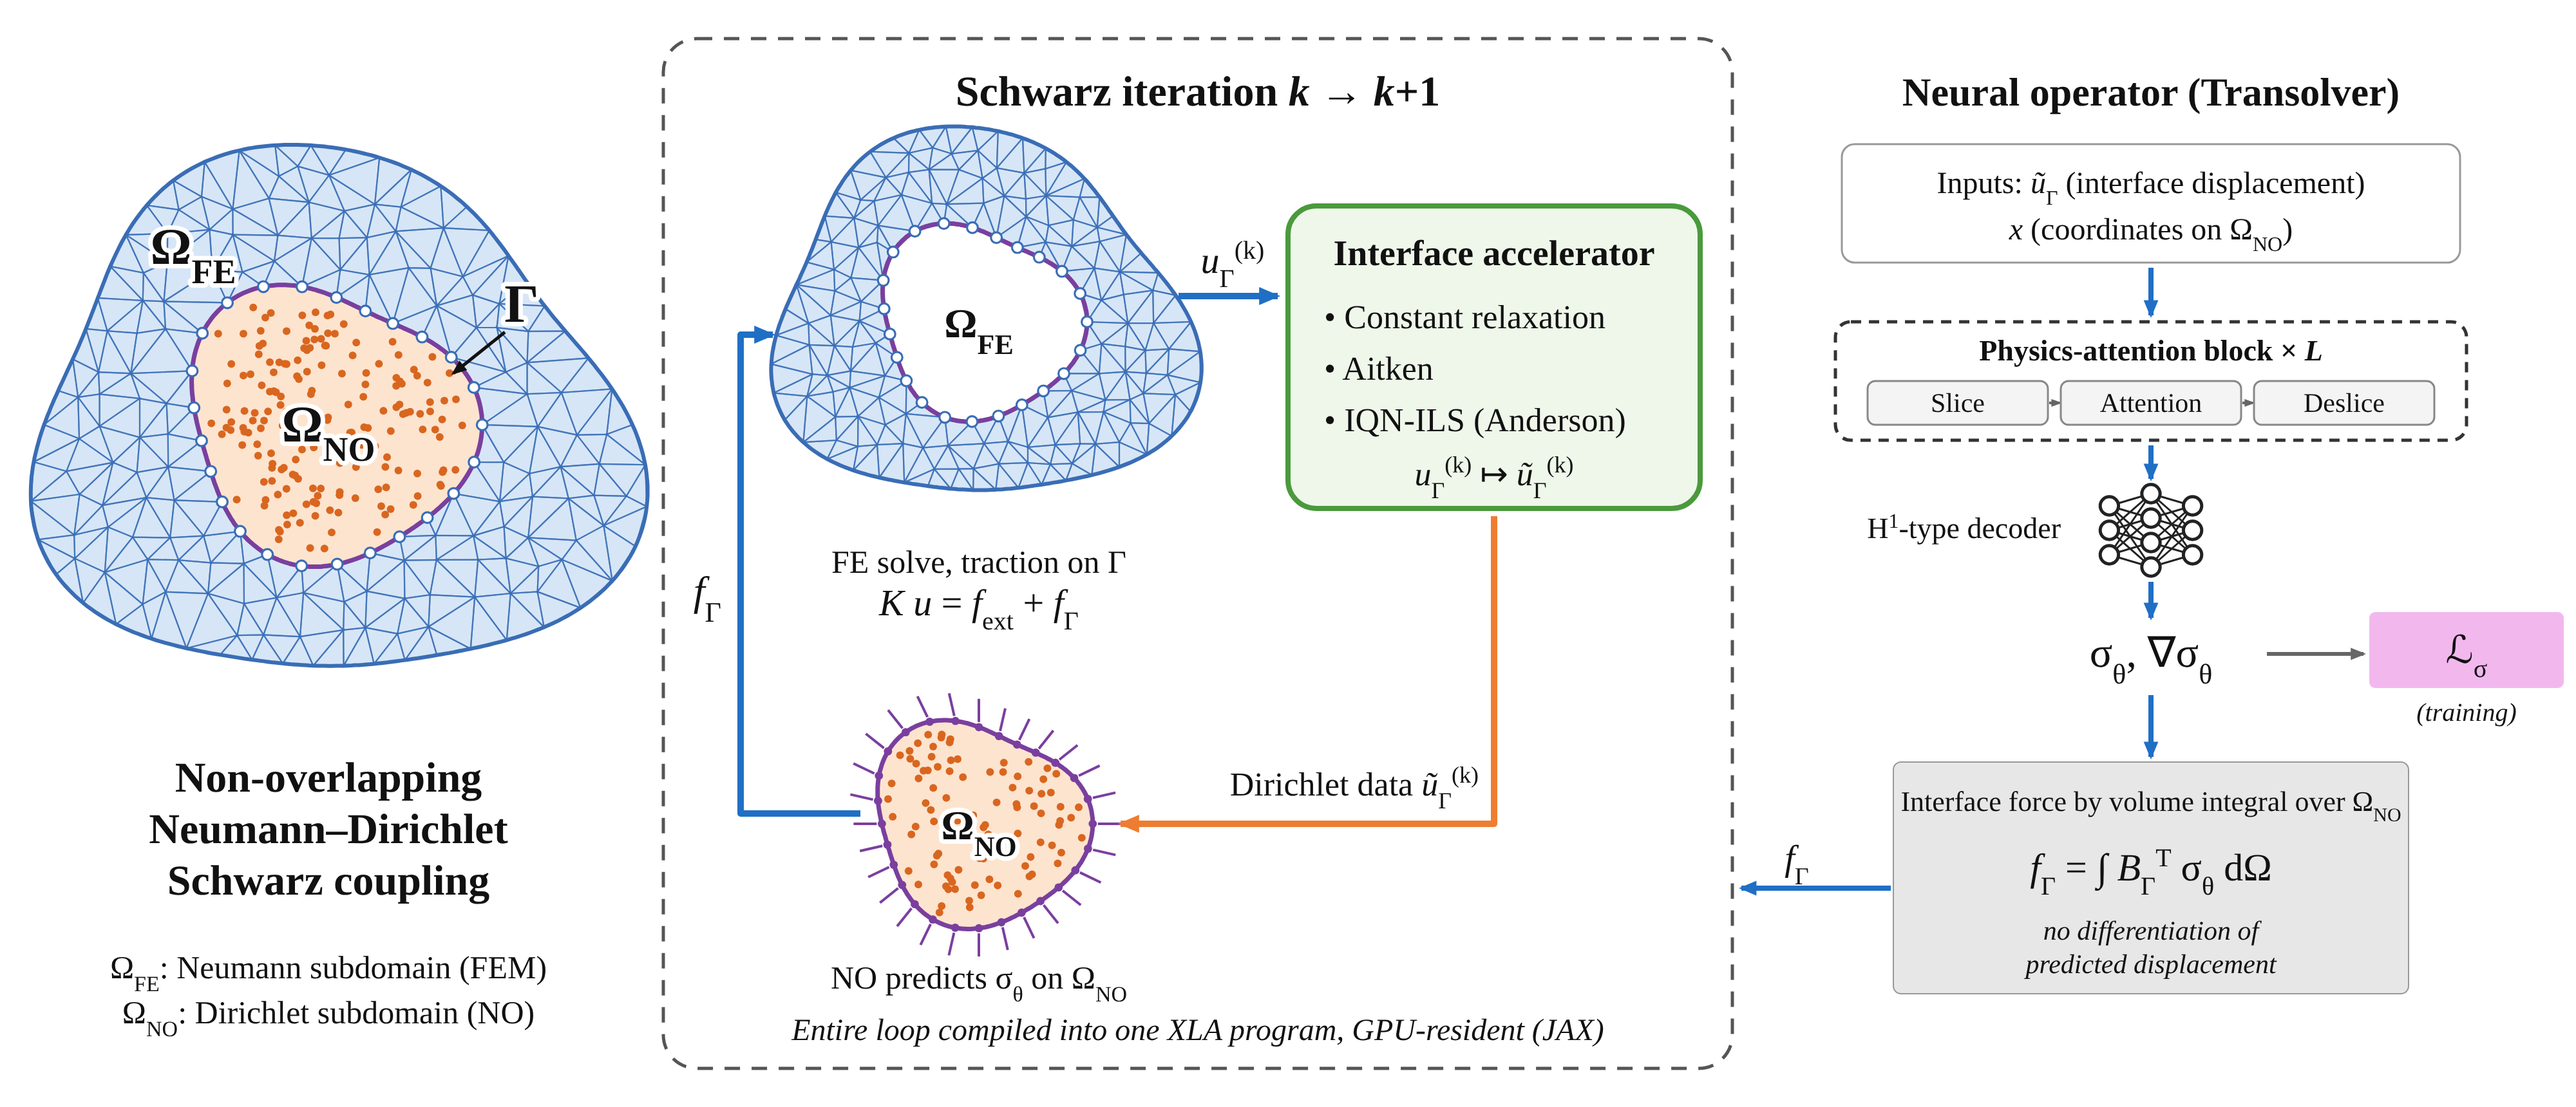
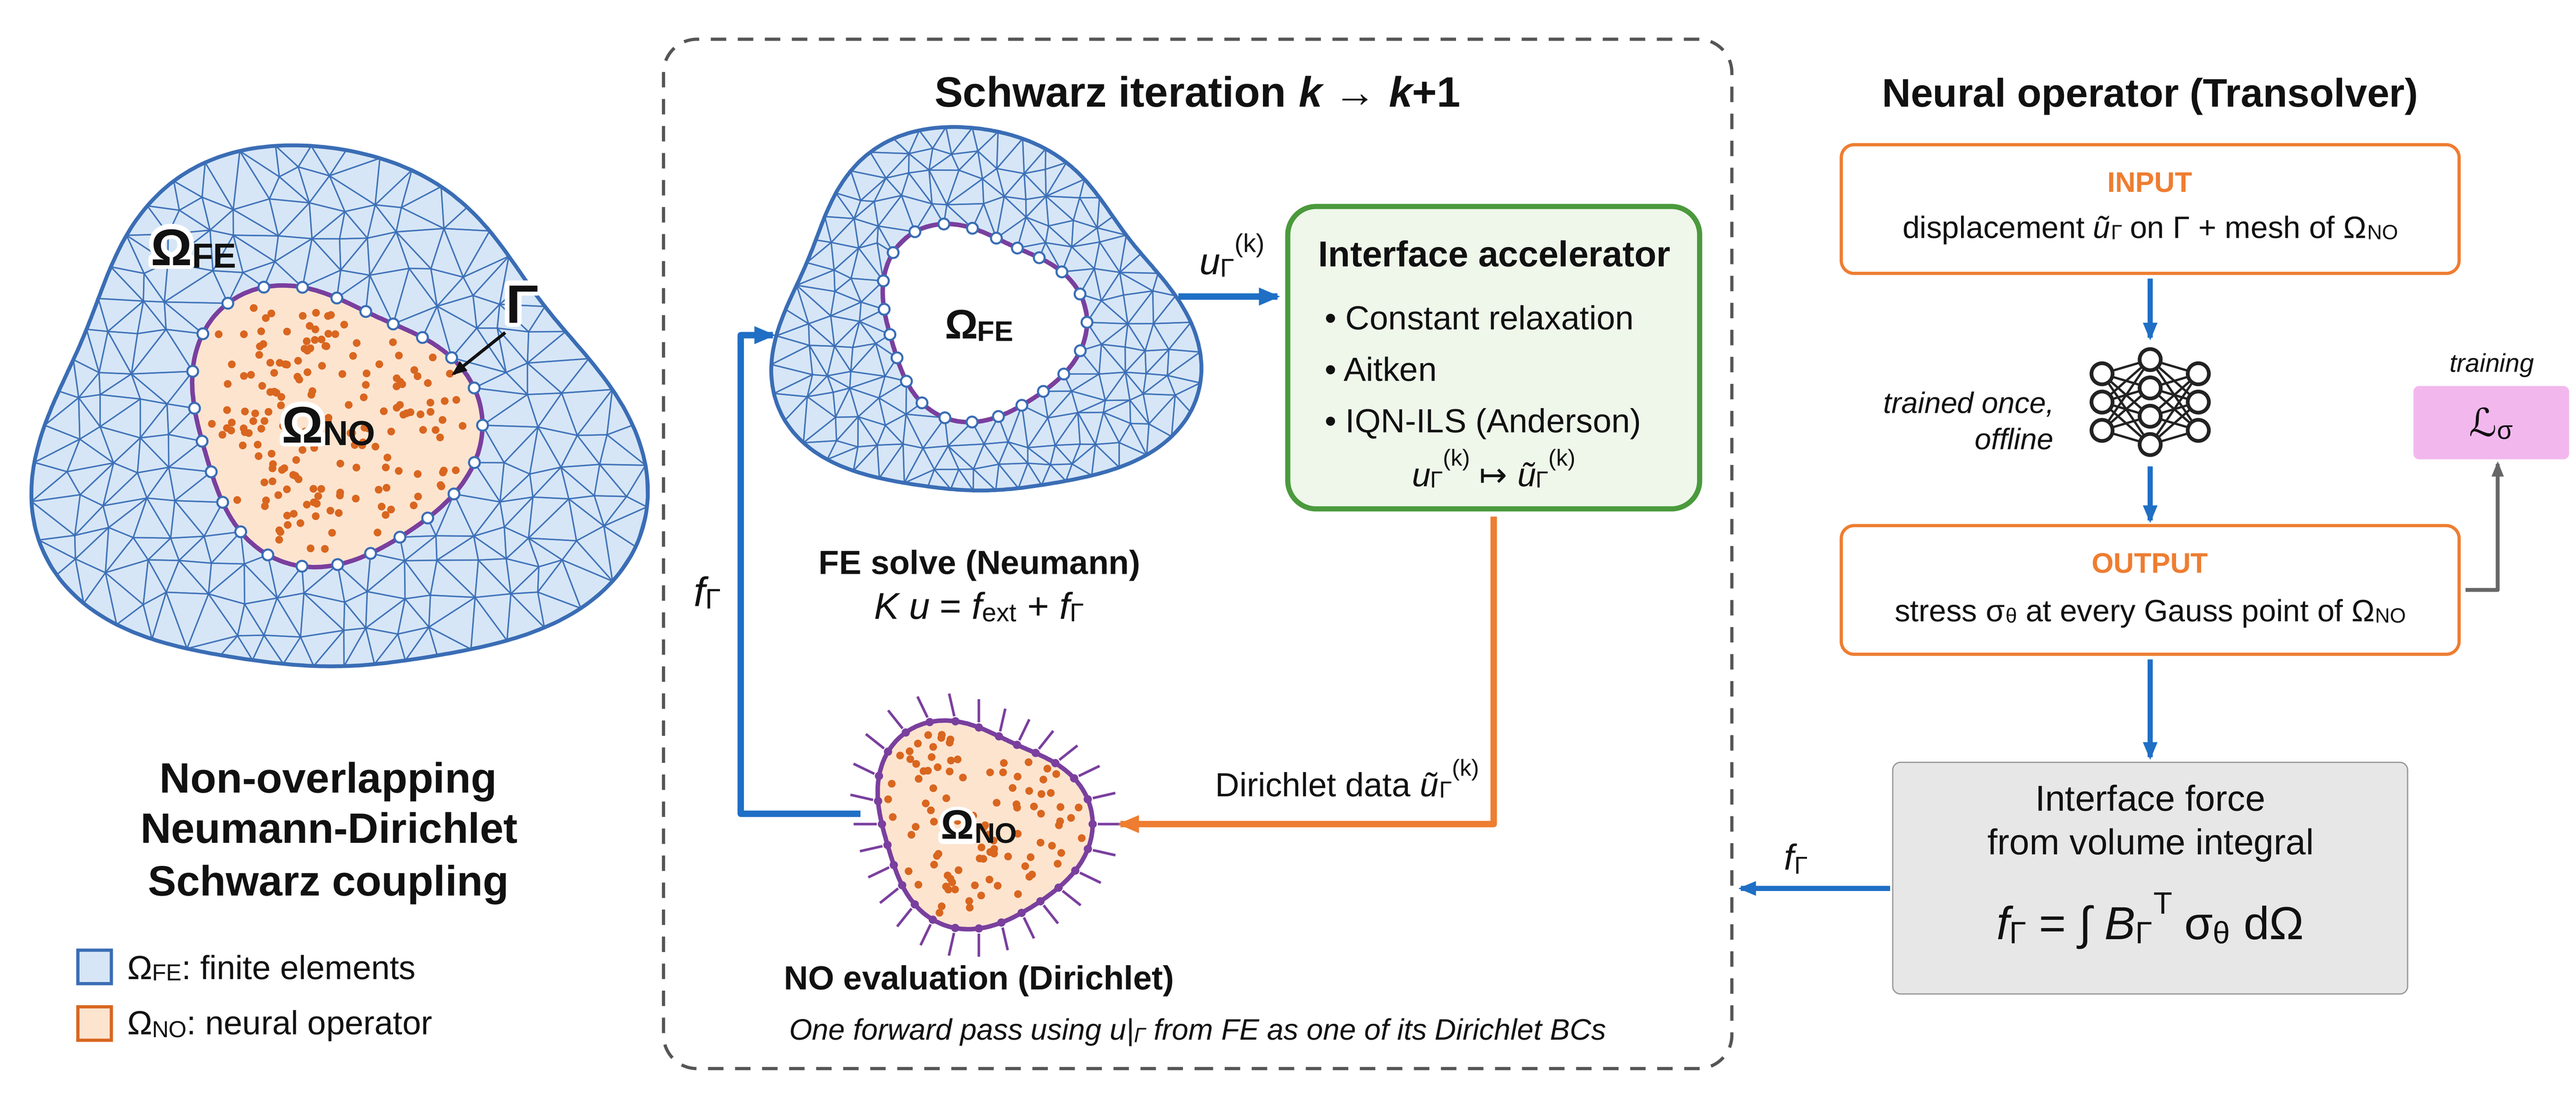
Add IDIES 2026 news; update FE-NO and multiscale figures and text

diff --git a/index.html b/index.html
@@ -52,6 +52,10 @@
               <td style="padding:16px;width:100%;vertical-align:middle">
                 <h2>News</h2>
                 <ul>
+                  <li><strong>Oct 2026</strong> &nbsp; Presented a poster, <em>Plug-in Neural Subdomains: FE&ndash;NO Coupling in 3D</em>, at the IDIES Annual Symposium 2026 at Johns Hopkins University.
+                  <br>
+                  <img src="images/2026IDIES.jpg" alt="Presenting the poster at the IDIES Annual Symposium 2026" style="width:40%; margin-top:8px; border-radius:6px;">
+                  </li>
                   <li><strong>Aug 2026</strong> &nbsp; Started a collaboration with Prof. Satyajit Mojumder (Washington State University) on neural operators for multiscale problems.</li>
                   <li><strong>Jul 2026</strong> &nbsp; Arrived in U.S. to work as an intern in the Centrum IntelliPhysics Lab at Johns Hopkins University.
                   <br>
@@ -100,8 +104,9 @@
                     <em>Ongoing, unpublished</em> &nbsp;|&nbsp; Johns Hopkins University &nbsp;|&nbsp; Apr 2026 &ndash; present
                     <img src="images/fe_no.png" style="display:block;width:80%;margin:12px auto 0;border-radius:6px;" alt="FE-NO coupling">
                     <p>
-                      A GPU-resident JAX solver that couples finite element and neural operator (Transolver) subdomains through
-                      non-overlapping Neumann&ndash;Dirichlet domain decomposition, scaled from 2D cylinder to a fiber composite with 100 learned subdomains and a J2-plastic bolted joint.
+                      A GPU-accelerated JAX solver that couples finite element and neural operator (Transolver) subdomains through
+                      non-overlapping Neumann&ndash;Dirichlet domain decomposition, with constant, Aitken and IQN-ILS (Anderson-type) interface accelerators,
+                      scaled from a 2D cylinder to a 3D fiber composite with 100 learned subdomains and a J2-plastic bolted joint under cyclic loading.
                     </p>
                   </li>
 
@@ -112,7 +117,7 @@
                     <img src="images/multiscale.png" style="display:block;width:80%;margin:12px auto 0;border-radius:6px;" alt="RVE microstructure">
                     <p>
                       Replacing the RVE solve at every macroscale integration point of FE&sup2; with a neural operator that takes
-                      realistic microstructures (fiber clustering, voids) and returns homogenized stress, with consistent tangents
+                      realistic microstructures (e.g. fiber clustering and resin-rich regions) and returns homogenized stress, with consistent tangents
                       from automatic differentiation inside a differentiable JAX finite element solver.
                     </p>
                   </li>
